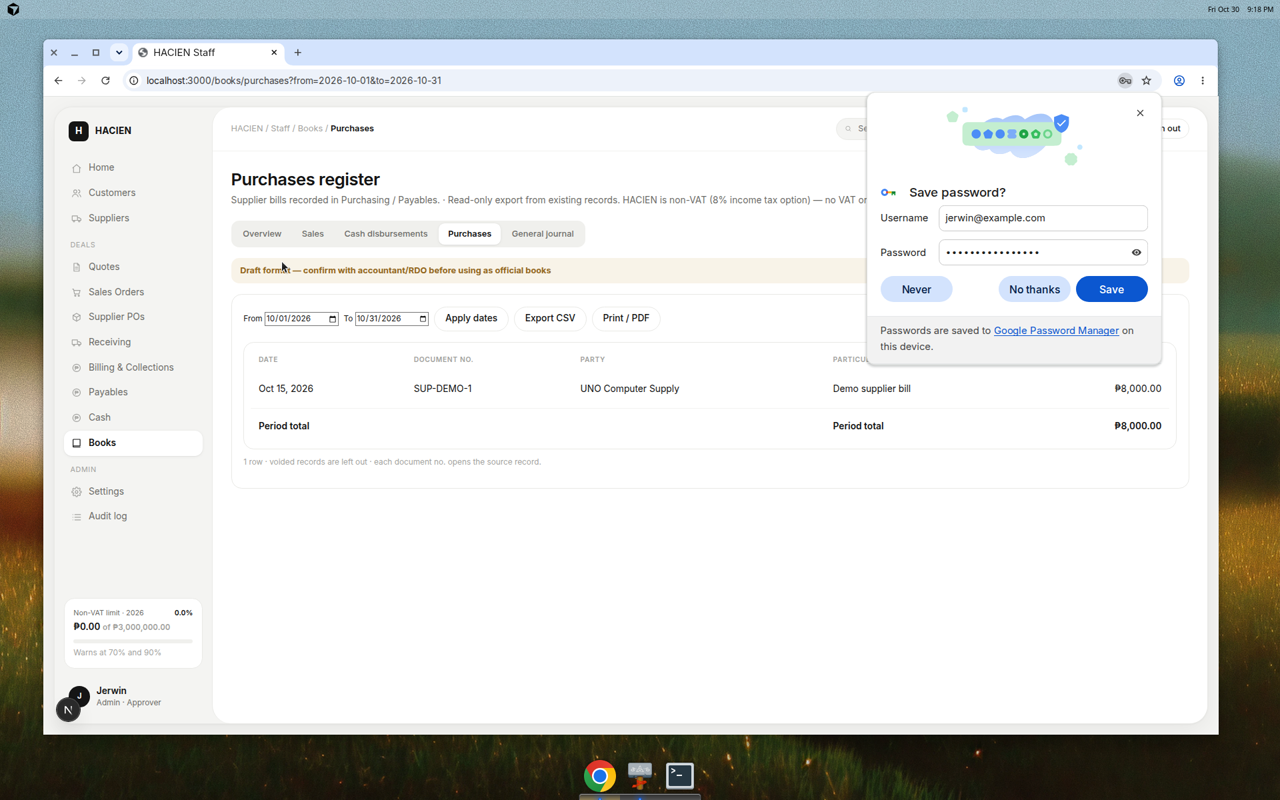
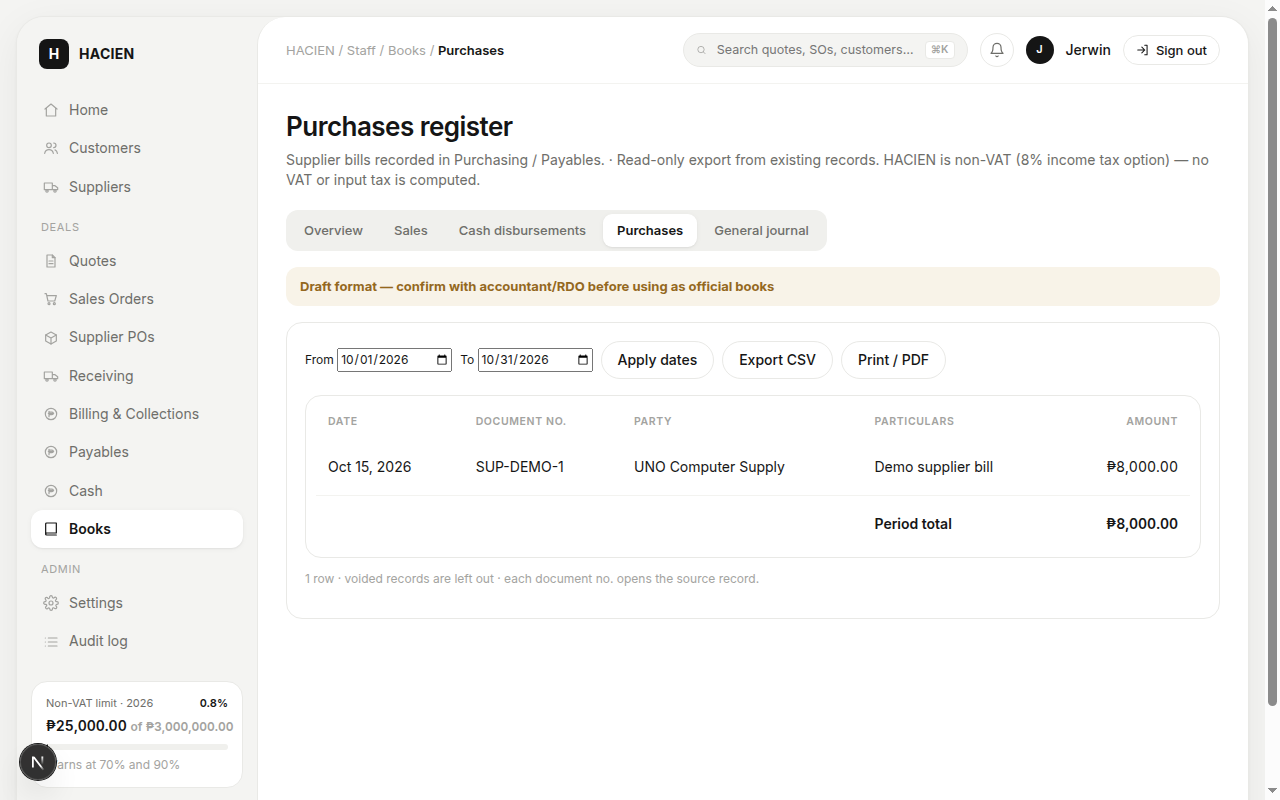
fix(books/cash): scope CASH_ENABLED in DB test; share csvCell; drop Save-password shots
- books.db.test sets/restores CASH_ENABLED around cash account + expense
  mutations so the suite passes with the env flag unset
- cash ledger CSV uses the shared Books csvCell (formula guard + plain
  numeric negatives); unit test covers '=1+1' and '-500.00'
- Retake docs screenshots that showed Chrome Save password? (fresh profile
  with password manager disabled). Leave 360px table-wrap shot unchanged.

diff --git a/tests/db/books.db.test.ts b/tests/db/books.db.test.ts
@@ -325,56 +325,68 @@ describe.skipIf(!env.hasDb)("books registers (MySQL)", () => {
       admin,
     );
 
-    const account = await createCashAccount(
-      {
-        name: `Books cash ${t}`,
-        type: "CASH_ON_HAND",
-        bankName: null,
-        accountHintLast4: null,
-        openingBalance: "100000.00",
-        openingDate: new Date(Date.UTC(year, 0, 1)),
-        active: true,
-      },
-      admin,
-    );
-    let cats = await db.expenseCategory.findMany({ where: { active: true }, take: 1 });
-    if (!cats.length) {
-      await db.expenseCategory.create({
-        data: { code: `UTIL_${t.slice(0, 6)}`, label: "Utilities", sortOrder: 1 },
-      });
-      cats = await db.expenseCategory.findMany({ where: { active: true }, take: 1 });
+    // Cash mutations need CASH_ENABLED; scope the flag so the rest of the
+    // suite (and other files) are unaffected when the env omits it.
+    const prevCashEnabled = process.env.CASH_ENABLED;
+    process.env.CASH_ENABLED = "true";
+    let expense: Awaited<ReturnType<typeof recordExpense>>;
+    let expenseVoidId: string;
+    try {
+      const account = await createCashAccount(
+        {
+          name: `Books cash ${t}`,
+          type: "CASH_ON_HAND",
+          bankName: null,
+          accountHintLast4: null,
+          openingBalance: "100000.00",
+          openingDate: new Date(Date.UTC(year, 0, 1)),
+          active: true,
+        },
+        admin,
+      );
+      let cats = await db.expenseCategory.findMany({ where: { active: true }, take: 1 });
+      if (!cats.length) {
+        await db.expenseCategory.create({
+          data: { code: `UTIL_${t.slice(0, 6)}`, label: "Utilities", sortOrder: 1 },
+        });
+        cats = await db.expenseCategory.findMany({ where: { active: true }, take: 1 });
+      }
+      expense = await recordExpense(
+        {
+          date: new Date(Date.UTC(year, 2, 12)),
+          supplierId: null,
+          payeeText: `Meralco ${t}`,
+          categoryId: cats[0]!.id,
+          amount: "750.25",
+          withholdingApplied: "0",
+          cashAccountId: account.id,
+          receiptNo: null,
+          notes: null,
+        },
+        admin,
+        [],
+      );
+      const expenseVoid = await recordExpense(
+        {
+          date: new Date(Date.UTC(year, 2, 13)),
+          supplierId: null,
+          payeeText: `Void me ${t}`,
+          categoryId: cats[0]!.id,
+          amount: "99.00",
+          withholdingApplied: "0",
+          cashAccountId: account.id,
+          receiptNo: null,
+          notes: null,
+        },
+        admin,
+        [],
+      );
+      expenseVoidId = expenseVoid.id;
+      await voidExpense(expenseVoid.id, "void", admin);
+    } finally {
+      if (prevCashEnabled === undefined) delete process.env.CASH_ENABLED;
+      else process.env.CASH_ENABLED = prevCashEnabled;
     }
-    const expense = await recordExpense(
-      {
-        date: new Date(Date.UTC(year, 2, 12)),
-        supplierId: null,
-        payeeText: `Meralco ${t}`,
-        categoryId: cats[0]!.id,
-        amount: "750.25",
-        withholdingApplied: "0",
-        cashAccountId: account.id,
-        receiptNo: null,
-        notes: null,
-      },
-      admin,
-      [],
-    );
-    const expenseVoid = await recordExpense(
-      {
-        date: new Date(Date.UTC(year, 2, 13)),
-        supplierId: null,
-        payeeText: `Void me ${t}`,
-        categoryId: cats[0]!.id,
-        amount: "99.00",
-        withholdingApplied: "0",
-        cashAccountId: account.id,
-        receiptNo: null,
-        notes: null,
-      },
-      admin,
-      [],
-    );
-    await voidExpense(expenseVoid.id, "void", admin);
 
     const from = `${year}-03-01`;
     const to = `${year}-03-31`;
@@ -386,7 +398,7 @@ describe.skipIf(!env.hasDb)("books registers (MySQL)", () => {
 
     const disb = await getBookRegister(admin, "disbursements", from, to);
     const disbOurs = disb.register.rows.filter((r) => r.id === pay.id || r.id === expense.id);
-    expect(disbOurs.some((r) => r.id === expenseVoid.id)).toBe(false);
+    expect(disbOurs.some((r) => r.id === expenseVoidId)).toBe(false);
     expect(sumMoney(disbOurs.map((r) => r.amount))).toBe(sumMoney(["4500.00", "750.25"]));
 
     await voidSupplierPayment(pay.id, "void pay", admin);

diff --git a/src/lib/books/registers.ts b/src/lib/books/registers.ts
@@ -4,7 +4,10 @@
 import { fromScaled, toScaled } from "../quotes/calc";
 import { ymdCmp } from "../cash/balance";
 import type { RegisterColumn, RegisterConfig, RegisterSourceKind } from "./config";
+import { csvCell } from "./csv";
 import { ymdInPeriod } from "./period";
+
+export { csvCell } from "./csv";
 
 export type BookSourceRow = {
   id: string;
@@ -173,26 +176,6 @@ export function buildRegister(
       : null,
     rowCount: rows.length,
   };
-}
-
-/**
- * CSV cell escape. Neutralizes spreadsheet formula injection by prefixing a
- * leading apostrophe when the value starts with = + @ tab CR, or a leading
- * minus that is *not* a plain number, then applies normal RFC-style quoting
- * for comma / quote / newline.
- *
- * Plain numeric cells matching /^-?\d+(\.\d+)?$/ (including negatives like
- * "-500.00") stay unescaped so spreadsheet apps keep them as numbers.
- * Risky minus forms ("-cmd", "-1+1") still get the apostrophe.
- */
-export function csvCell(v: string): string {
-  let out = v;
-  const plainNumber = /^-?\d+(\.\d+)?$/.test(out);
-  if (/^[=+@\t\r]/.test(out) || (/^-/.test(out) && !plainNumber)) {
-    out = `'${out}`;
-  }
-  if (/[",\n]/.test(out)) return `"${out.replace(/"/g, '""')}"`;
-  return out;
 }
 
 function cellValue(row: BookSourceRow, key: RegisterColumn["key"]): string {

diff --git a/src/lib/cash/balance.ts b/src/lib/cash/balance.ts
@@ -3,6 +3,7 @@
 // ± transfers. Voided rows contribute 0. Date cutoffs use PHT calendar days
 // stored as DATE (UTC midnight of that Manila day = YYYY-MM-DD).
 
+import { csvCell } from "../books/csv";
 import { fromScaled, toScaled } from "../quotes/calc";
 
 export type LedgerDirection = "IN" | "OUT" | "TRANSFER_IN" | "TRANSFER_OUT" | "OPENING";
@@ -176,7 +177,7 @@ export function prevYmd(ymd: string): string {
   return d.toISOString().slice(0, 10);
 }
 
-/** CSV escape for ledger export. */
+/** CSV escape for ledger export (uses shared Books csvCell formula guard). */
 export function ledgerToCsv(rows: readonly LedgerRow[]): string {
   const header = ["Date", "Type", "Number", "Description", "In", "Out", "Balance"];
   const lines = [header.join(",")];
@@ -188,9 +189,4 @@ export function ledgerToCsv(rows: readonly LedgerRow[]): string {
     lines.push(cells.join(","));
   }
   return `${lines.join("\n")}\n`;
-}
-
-function csvCell(v: string): string {
-  if (/[",\n]/.test(v)) return `"${v.replace(/"/g, '""')}"`;
-  return v;
 }

diff --git a/tests/cash.test.ts b/tests/cash.test.ts
@@ -205,6 +205,31 @@ describe("ledger running balance + CSV", () => {
     expect(csv).toContain("0.30");
     expect(csv.split("\n")[0]).toMatch(/Date,Type,Number/);
   });
+
+  it("CSV uses Books csvCell: formula cells escaped, plain negatives numeric", () => {
+    const rows = buildLedger({
+      openingBalance: "-500.00",
+      openingDate: "2026-04-01",
+      entries: [
+        {
+          id: "x",
+          kind: "COLLECTION",
+          number: "CR-1",
+          date: "2026-04-02",
+          amount: "10.00",
+          direction: "IN",
+          description: "=1+1",
+          href: null,
+        },
+      ],
+    });
+    const csv = ledgerToCsv(rows);
+    // Description starting with = must get the leading apostrophe
+    expect(csv).toContain("'=1+1");
+    // Plain numeric opening/running balances stay numeric (no apostrophe)
+    expect(csv).toMatch(/(^|,)-500\.00(,|$)/m);
+    expect(csv).not.toMatch(/'-500\.00/);
+  });
 });
 
 describe("ymd helpers", () => {

diff --git a/src/lib/books/csv.ts b/src/lib/books/csv.ts
@@ -1,0 +1,19 @@
+/**
+ * Shared CSV cell escape for Books (and Cash ledger export).
+ * Neutralizes spreadsheet formula injection by prefixing a leading apostrophe
+ * when the value starts with = + @ tab CR, or a leading minus that is *not* a
+ * plain number, then applies normal RFC-style quoting for comma / quote / newline.
+ *
+ * Plain numeric cells matching /^-?\d+(\.\d+)?$/ (including negatives like
+ * "-500.00") stay unescaped so spreadsheet apps keep them as numbers.
+ * Risky minus forms ("-cmd", "-1+1") still get the apostrophe.
+ */
+export function csvCell(v: string): string {
+  let out = v;
+  const plainNumber = /^-?\d+(\.\d+)?$/.test(out);
+  if (/^[=+@\t\r]/.test(out) || (/^-/.test(out) && !plainNumber)) {
+    out = `'${out}`;
+  }
+  if (/[",\n]/.test(out)) return `"${out.replace(/"/g, '""')}"`;
+  return out;
+}
